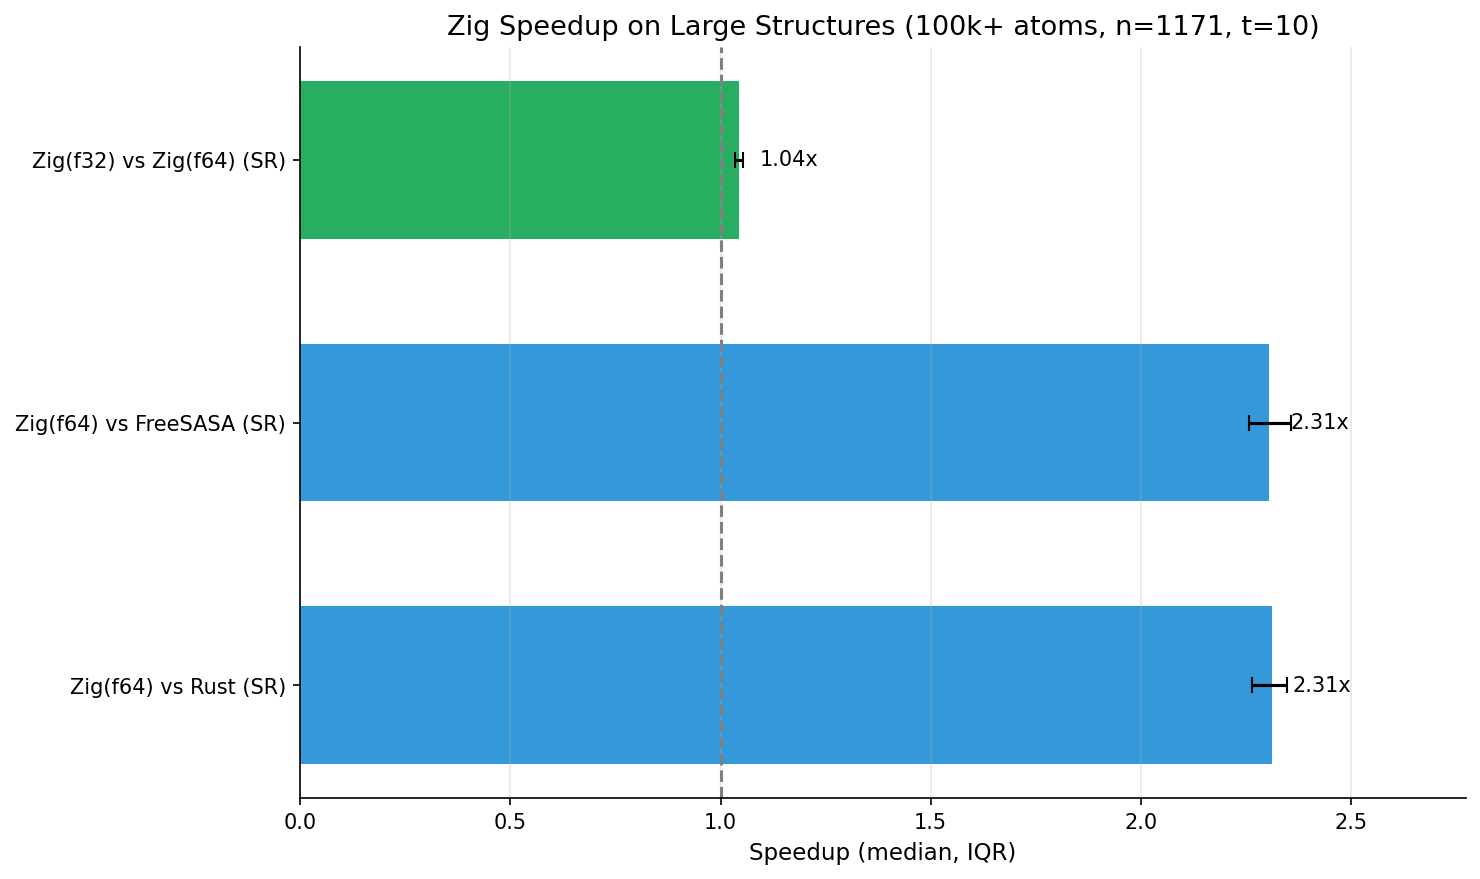
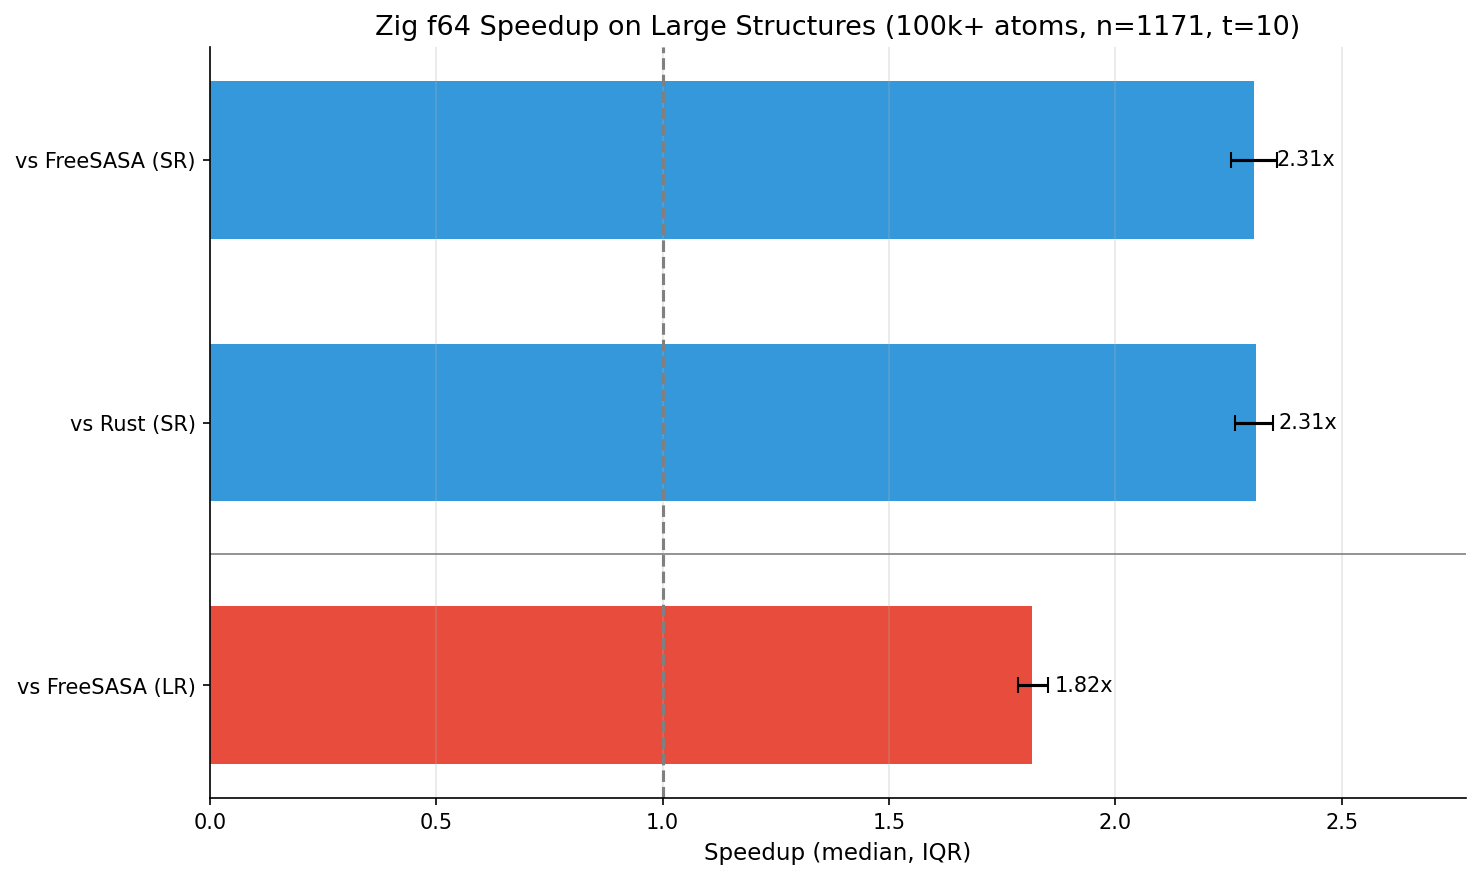
docs(benchmark): Update results.md with highlight graphs (#108)
* fix(benchmark): Update large structure speedup plot

- Remove f32 vs f64 comparison from speedup_bar.png
- Add LR vs FreeSASA comparison
- Simplify y-axis labels (e.g., "vs FreeSASA (SR)")
- Update title to "Zig f64 Speedup..."
- Fix LR data detection (zig_lr has no precision suffix)

* docs(benchmark): Add highlight section with main graphs

- Add Highlights section at top of results.md
- Feature speedup_bar.png and speedup_by_threads.png
- Update Large Structure Analysis with both graphs
- Simplify comparison labels
- Mark LR as supplementary

diff --git a/benchmarks/scripts/analyze.py b/benchmarks/scripts/analyze.py
@@ -982,15 +982,19 @@ def large():
     # LR section first (will appear at bottom)
     lr_count = 0
 
+    # For LR, zig_lr directory has no precision suffix, so tool_label is just "zig"
+    zig_lr_col = (
+        "zig_f64" if "zig_f64" in pivots.get("lr", pl.DataFrame()).columns else "zig"
+    )
     if (
         "lr" in pivots
-        and "zig_f64" in pivots["lr"].columns
+        and zig_lr_col in pivots["lr"].columns
         and "freesasa" in pivots["lr"].columns
     ):
-        speedup = pivots["lr"]["freesasa"] / pivots["lr"]["zig_f64"]
+        speedup = pivots["lr"]["freesasa"] / pivots["lr"][zig_lr_col]
         results.append(
             {
-                "label": "Zig(f64) vs FreeSASA (LR)",
+                "label": "vs FreeSASA (LR)",
                 "speedup": speedup.median(),
                 "q25": speedup.quantile(0.25),
                 "q75": speedup.quantile(0.75),
@@ -1008,7 +1012,7 @@ def large():
         speedup = pivots["sr"]["rust"] / pivots["sr"]["zig_f64"]
         results.append(
             {
-                "label": "Zig(f64) vs Rust (SR)",
+                "label": "vs Rust (SR)",
                 "speedup": speedup.median(),
                 "q25": speedup.quantile(0.25),
                 "q75": speedup.quantile(0.75),
@@ -1024,28 +1028,11 @@ def large():
         speedup = pivots["sr"]["freesasa"] / pivots["sr"]["zig_f64"]
         results.append(
             {
-                "label": "Zig(f64) vs FreeSASA (SR)",
+                "label": "vs FreeSASA (SR)",
                 "speedup": speedup.median(),
                 "q25": speedup.quantile(0.25),
                 "q75": speedup.quantile(0.75),
                 "color": colors_algo["sr"],
-            }
-        )
-
-    # f32 vs f64 comparison (SR only)
-    if (
-        "sr" in pivots
-        and "zig_f32" in pivots["sr"].columns
-        and "zig_f64" in pivots["sr"].columns
-    ):
-        speedup = pivots["sr"]["zig_f64"] / pivots["sr"]["zig_f32"]
-        results.append(
-            {
-                "label": "Zig(f32) vs Zig(f64) (SR)",
-                "speedup": speedup.median(),
-                "q25": speedup.quantile(0.25),
-                "q75": speedup.quantile(0.75),
-                "color": "#27ae60",  # Green for f32 comparison
             }
         )
 
@@ -1083,7 +1070,9 @@ def large():
     n_structs = (
         df_large.filter(pl.col("algorithm") == "sr").select("structure").unique().height
     )
-    ax.set_title(f"Zig Speedup on Large Structures (100k+ atoms, n={n_structs}, t=10)")
+    ax.set_title(
+        f"Zig f64 Speedup on Large Structures (100k+ atoms, n={n_structs}, t=10)"
+    )
     ax.set_xlim(0, max(speedups) * 1.2)
     ax.grid(True, alpha=0.3, axis="x")
 

diff --git a/docs/benchmark/results.md b/docs/benchmark/results.md
@@ -2,9 +2,24 @@
 
 Large-scale benchmark results for freesasa-zig. Fair comparison using stratified sampling.
 
-- **Shrake-Rupley**: ~100k structures
-- **Lee-Richards**: ~30k structures (due to higher computational cost)
-- **Precision**: Single-file mode uses f64 for all tools (batch mode has Zig f32 / RustSASA f32 options)
+- **Shrake-Rupley (SR)**: ~100k structures
+- **Lee-Richards (LR)**: ~30k structures (supplementary)
+- **Precision**: f64 for all tools
+
+## Highlights
+
+Zig's key advantage: **Large structures + Multi-threading**
+
+| Speedup at t=10 | Thread Scaling (100k+ atoms) |
+|:---------------:|:----------------------------:|
+| ![Speedup](../../benchmarks/results/plots/large/speedup_bar.png) | ![Thread Scaling](../../benchmarks/results/plots/large/speedup_by_threads.png) |
+
+**Key Results (100k+ atoms, n=1,171):**
+- **2.3x** faster than FreeSASA and RustSASA (SR, t=10)
+- **1.8x** faster than FreeSASA (LR, t=10)
+- Speedup increases with thread count (parallel efficiency advantage)
+
+---
 
 ## Test Environment
 
@@ -152,13 +167,19 @@ Single-threaded comparison (excluding parallelization effects):
 
 ### Summary (100k+ atoms, n=1,171)
 
-![Zig Speedup on Large Structures](../../benchmarks/results/plots/large/speedup_bar.png)
+| Speedup at t=10 | Thread Scaling |
+|:---------------:|:--------------:|
+| ![Speedup](../../benchmarks/results/plots/large/speedup_bar.png) | ![Thread Scaling](../../benchmarks/results/plots/large/speedup_by_threads.png) |
 
 | Comparison | Median Speedup | IQR |
 |------------|---------------:|----:|
-| Zig vs FreeSASA (SR) | **2.31x** | 2.27-2.36 |
-| Zig vs RustSASA (SR) | **2.31x** | 2.26-2.35 |
-| Zig vs FreeSASA (LR) | **1.82x** | 1.78-1.85 |
+| vs FreeSASA (SR) | **2.31x** | 2.27-2.36 |
+| vs RustSASA (SR) | **2.31x** | 2.26-2.35 |
+| vs FreeSASA (LR) | **1.82x** | 1.78-1.85 |
+
+**Observations:**
+- Speedup improves with thread count (1.6x→2.3x vs FreeSASA)
+- vs Rust: dramatic improvement (1.1x→2.3x) due to parallel efficiency difference
 
 ### Maximum Structure: 9fqr (4,506,416 atoms)
 
